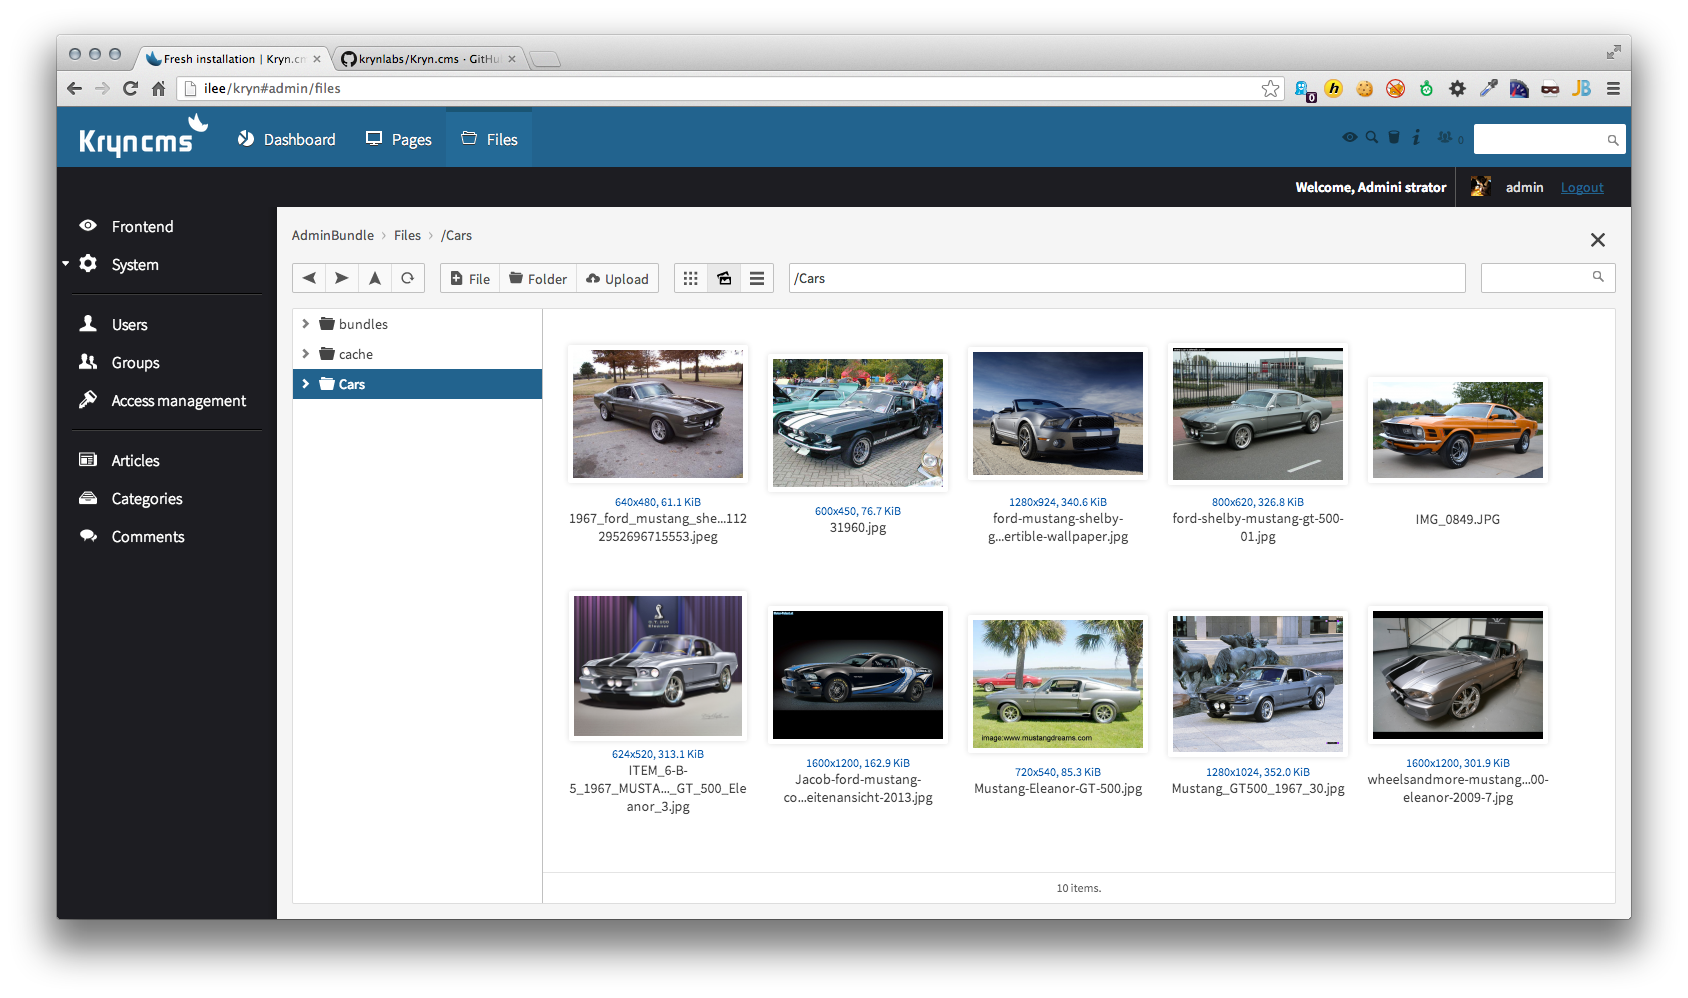
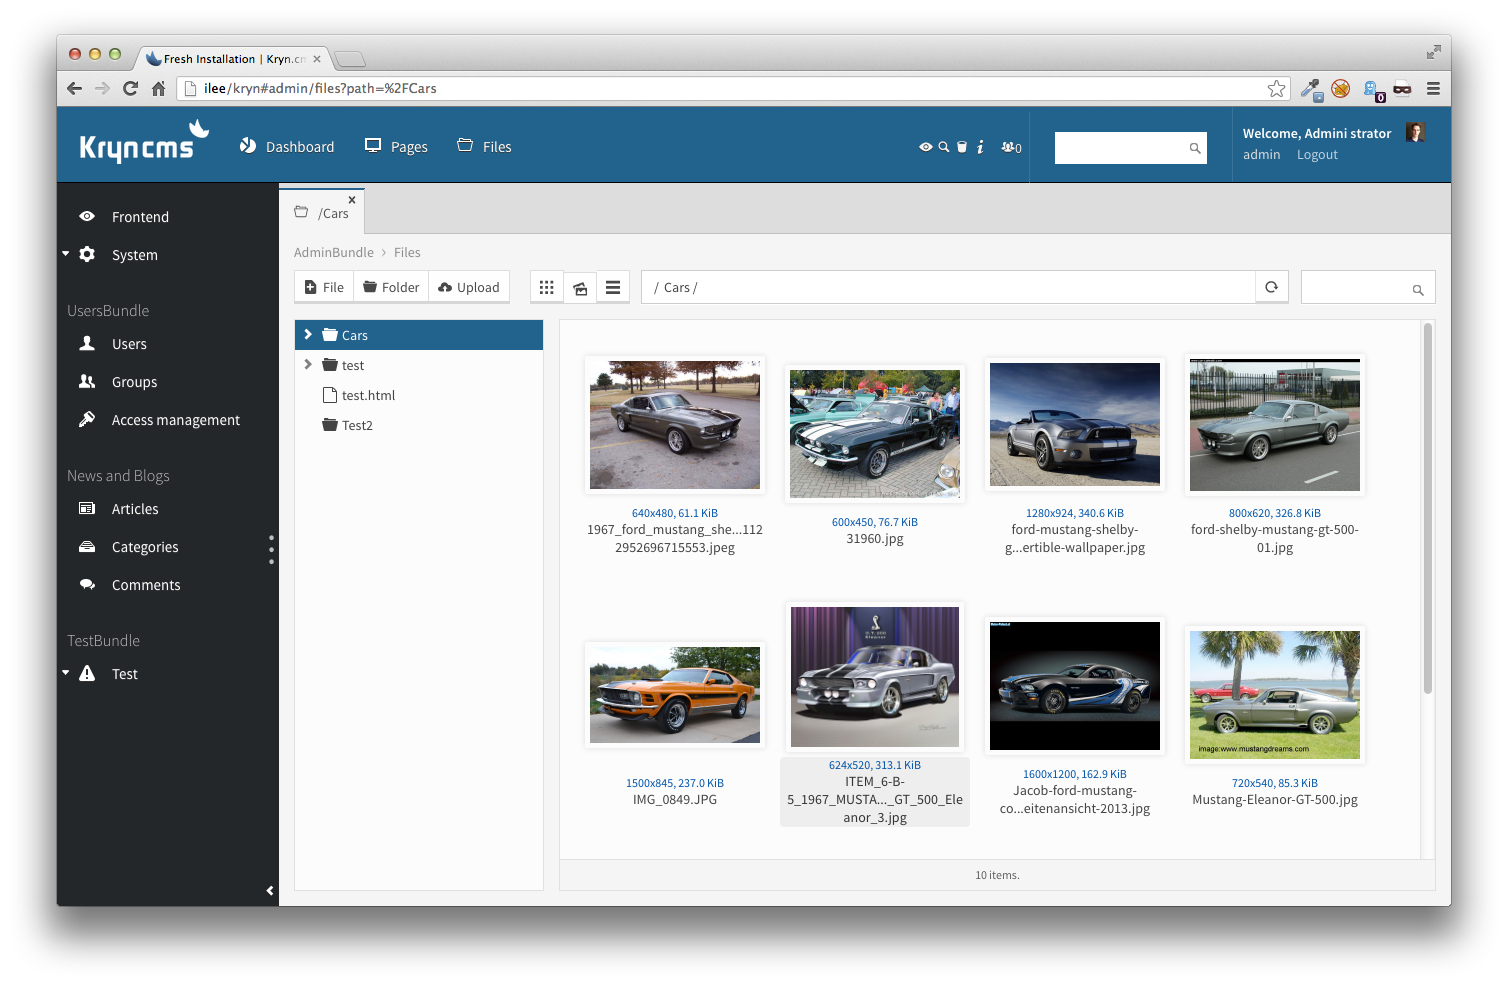
Adjusted the main menu bar a bit. Added new Screenshots

diff --git a/src/Admin/Resources/public/css/ai.css b/src/Admin/Resources/public/css/ai.css
@@ -313,7 +313,8 @@ span.selectable span, div.selectable div {
 
 .ka-main-menu-additional {
     float: right;
-    height: 75px;
+    padding-top: 5px;
+    height: 70px;
     font-size: 10px;
 }
 
@@ -350,9 +351,8 @@ div.ka-main-menu-additional img.arrowUp:hover {
     padding-top: 15px;
     height: 60px;
     float: right;
-    width: 220px;
     border-left: 1px solid #39739a;
-    line-height: 25px;
+    line-height: 15px;
 }
 
 .ka-main-menu-user > h2 {
@@ -631,8 +631,8 @@ a.ka-main-menu-item-open:link {
 .ka-iconbar-item > a,
 .ka-iconbar-item > a:link {
     color: #f3f3f3;
-    font-size: 16px;
-    padding: 0 3px;
+    font-size: 14px;
+    padding: 0 2px;
     display: inline-block;
     text-decoration: none;
     position: relative;

diff --git a/src/Admin/Resources/public/js/ka/AdminInterface.js b/src/Admin/Resources/public/js/ka/AdminInterface.js
@@ -262,6 +262,8 @@ ka.AdminInterface = new Class({
             src: 'https://secure.gravatar.com/avatar/4cf03620f0f00793f5d034480654bd3c?s=200'
         }).inject(this.mainMenuUser);
 
+        new Element('br').inject(this.mainMenuUser);
+
         new Element('span', {
             text: window._session.username,
             'class': 'username'
